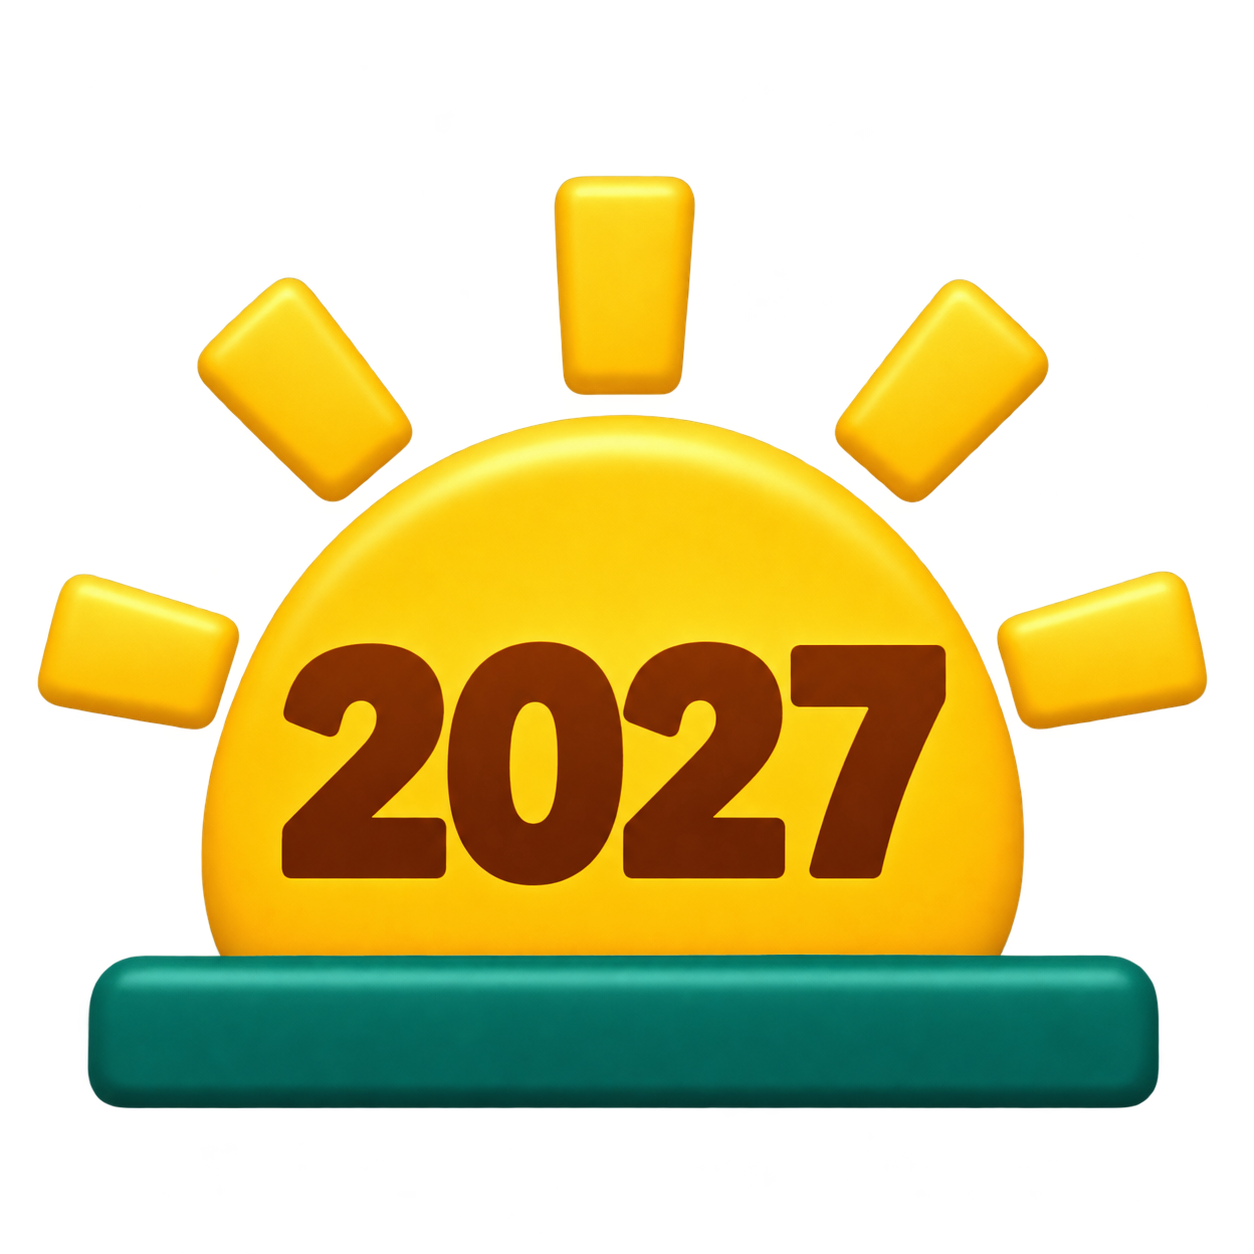
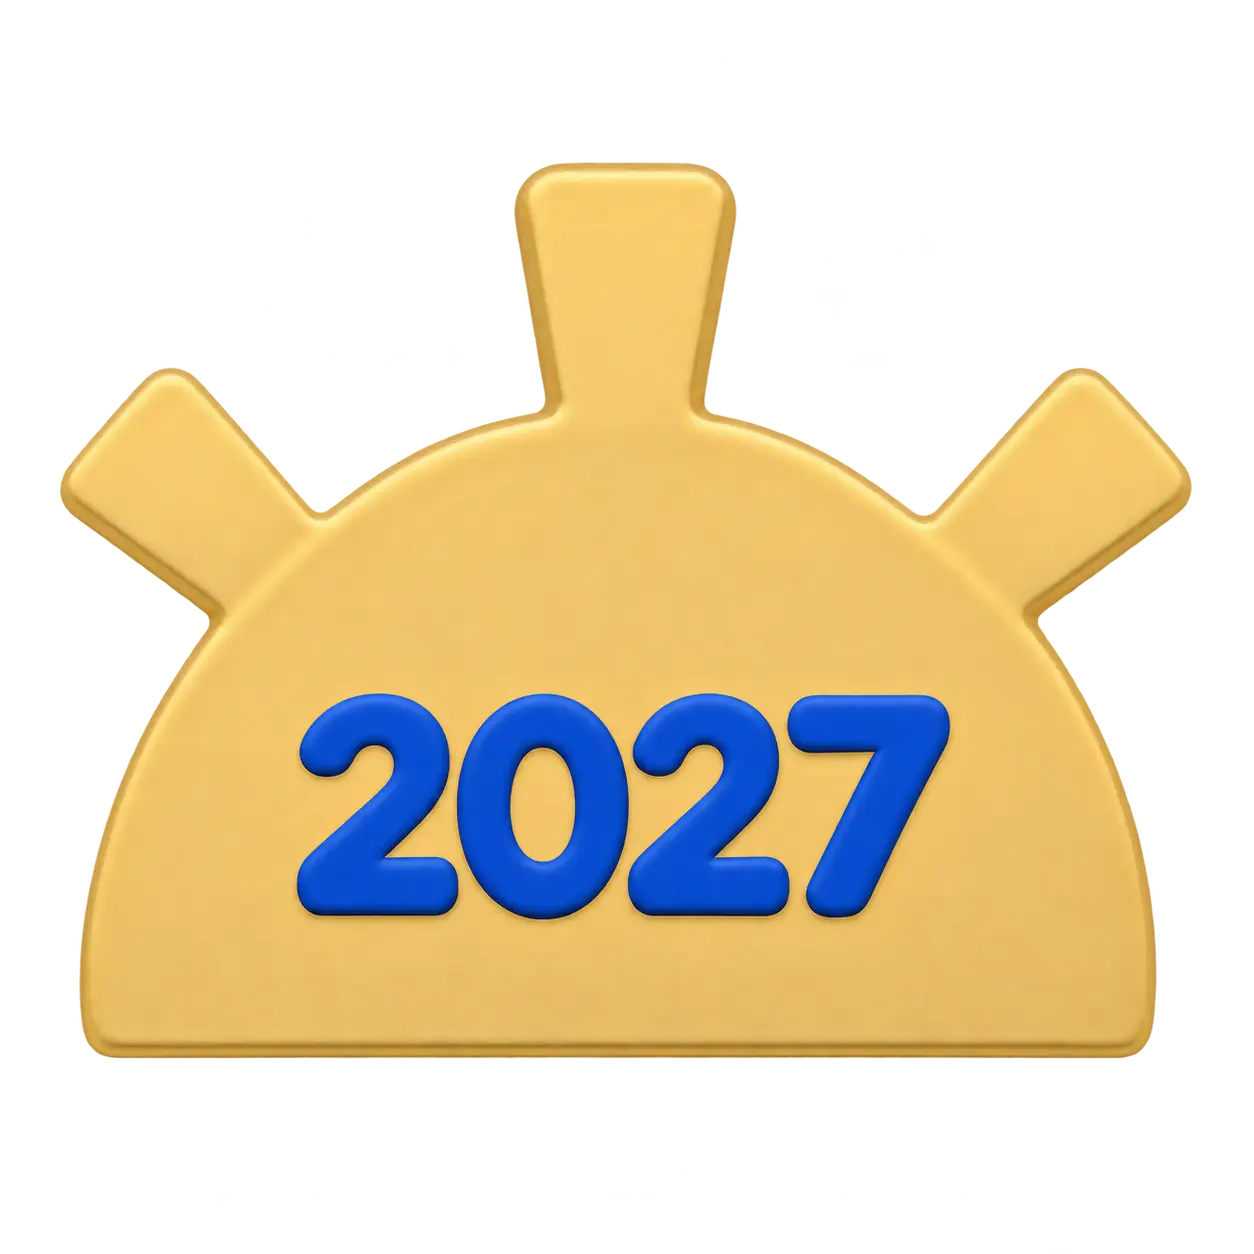
v559
Replace the New Year 2027 special medal placeholder with the supplied final artwork
Preserve the existing boxxy-special-new-year-2027.png filename
Add a v559 cache-buster so browsers fetch the replacement artwork
Preserve existing New Year award and fireworks behaviour unchanged
Refresh release metadata and offline cache version to v559

diff --git a/assets/data/content-catalog.js b/assets/data/content-catalog.js
@@ -96,7 +96,7 @@
       startUtc: "2026-12-25T00:00:00.000Z", endUtc: "2026-12-26T00:00:00.000Z" }
   }, {
     id: "new-year-2027", category: "special", title: "New Year 2027",
-    image: "assets/medals/boxxy-special-new-year-2027.png",
+    image: "assets/medals/boxxy-special-new-year-2027.png?v=559",
     message: "You completed the New Year's Day BOXXY Daily on 1 January! Your 2027 medal is ready for your trophy cabinet.",
     award: { kind: "daily-completion", date: "2027-01-01",
       startUtc: "2027-01-01T00:00:00.000Z", endUtc: "2027-01-02T00:00:00.000Z" }

diff --git a/service-worker.js b/service-worker.js
@@ -1,3 +1,4 @@
+/* BOXXY v559: replace the New Year 2027 special medal artwork and refresh its cache reference. */
 /* BOXXY v558: repair New Year fireworks and Basement Daily Practice preview shell. */
 /* BOXXY v557: refresh gameplay client for Daily Practice New Year celebration preview. */
 /* BOXXY v556: cache January 2027 Dailys, New Year medal and celebration client assets. */

diff --git a/assets/data/release.js b/assets/data/release.js
@@ -2,7 +2,7 @@
 (() => {
   "use strict";
   globalThis.BOXXY_RELEASE = Object.freeze({
-    version: "558",
+    version: "559",
     lastUpdated: "2026-11-23"
   });
 })();
